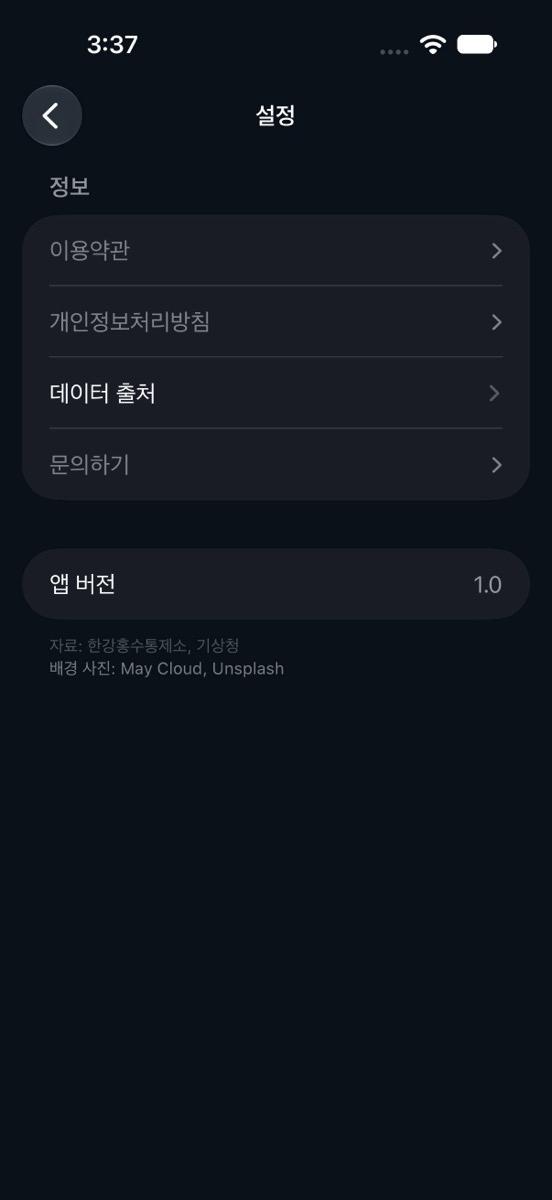
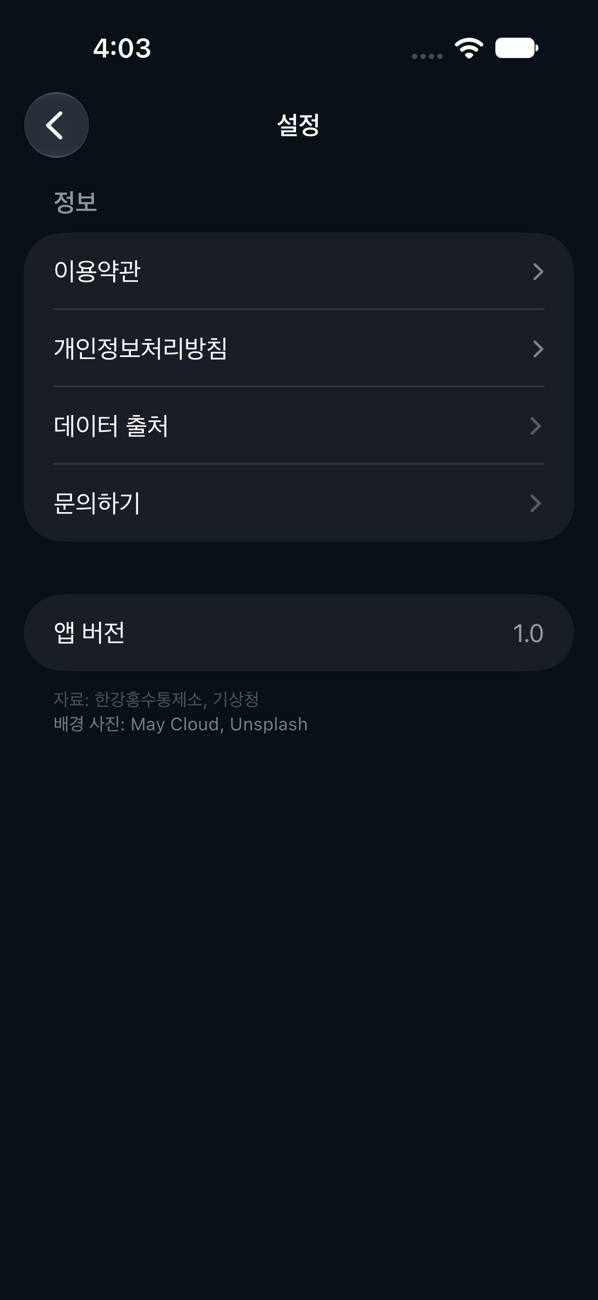
feat: 문의하기 화면 — 앱 이메일 · 기상청 · 한강홍수통제소 (#92)
문의하기가 메일 앱 대신 앱 안 화면을 열어서 SettingsRowsTests 기대값 2곳을 새 동작에 맞춤.

diff --git a/yeoulmok/yeoulmok/Features/Settings/ContactView.swift b/yeoulmok/yeoulmok/Features/Settings/ContactView.swift
@@ -1,0 +1,117 @@
+import SwiftUI
+
+/// "문의하기" in settings (APP-SET-02, #92): the app's own email first, then the public
+/// agencies whose data the app shows, kept apart so app problems are not sent to them.
+/// Temporary wording until QA (not in Figma).
+///
+///     여울목 앱 문의
+///       이메일                 help@example.com    ›
+///     관측 자료 문의 (공식 기관)
+///       기상청 · 강수량          홈페이지 ›   131 ›
+///       한강홍수통제소 · 하천 수위  홈페이지 ›
+struct ContactView: View {
+    /// A public agency the app's data comes from (same as `DataSourceView`).
+    struct Agency: Equatable {
+        let id: String
+        let name: String
+        /// What to ask them about.
+        let topic: String
+        let website: URL
+        /// Phone shown with its note, or `nil` to show only the website (a number that
+        /// could not be confirmed is left out, so it never goes stale in the app).
+        let phone: String?
+        let phoneNote: String?
+    }
+
+    static let appSection = "여울목 앱 문의"
+    static let appFooter = "앱 오류, 알림, 계곡 추가 요청은 여울목으로 보내 주세요."
+    static let agencySection = "관측 자료 문의 (공식 기관)"
+    static let agencyFooter = "관측값 자체나 공식 예보 · 특보는 해당 기관에 문의해 주세요. 기관에서는 여울목 앱 문의를 받지 않아요."
+    static let emailMissing = "준비 중"
+
+    /// Checked on 2026-11-20: KMA weather call center 131 (24 hours, charged); for the
+    /// Han River Flood Control Office only the website is listed.
+    static let agencies: [Agency] = [
+        Agency(id: "kma", name: "기상청", topic: "강수량 · 날씨",
+               website: URL(string: "https://www.weather.go.kr")!,
+               phone: "131", phoneNote: "기상콜센터 · 24시간 · 유료"),
+        Agency(id: "hrfco", name: "한강홍수통제소", topic: "하천 수위 · 홍수 예보",
+               website: URL(string: "https://www.hrfco.go.kr")!,
+               phone: nil, phoneNote: nil),
+    ]
+
+    let info: AppInfo
+
+    @Environment(\.openURL) private var openURL
+
+    var body: some View {
+        List {
+            Section {
+                row(title: "이메일", value: info.contactEmail ?? Self.emailMissing,
+                    url: info.contactURL, id: "contact.email")
+            } header: {
+                Text(Self.appSection)
+            } footer: {
+                Text(Self.appFooter)
+            }
+            .listRowBackground(Self.rowBackground)
+
+            Section {
+                ForEach(Self.agencies, id: \.id) { agency in
+                    VStack(alignment: .leading, spacing: 2) {
+                        Text(agency.name).font(.body.weight(.semibold))
+                        Text(agency.topic).font(.footnote).foregroundStyle(Theme.Text.label)
+                    }
+                    .accessibilityElement(children: .combine)
+                    row(title: "홈페이지", value: agency.website.host() ?? "", url: agency.website,
+                        id: "contact.\(agency.id).web")
+                    if let phone = agency.phone {
+                        row(title: "전화 \(phone)", value: agency.phoneNote ?? "",
+                            url: URL(string: "tel:\(phone)"), id: "contact.\(agency.id).phone")
+                    }
+                }
+            } header: {
+                Text(Self.agencySection)
+            } footer: {
+                Text(Self.agencyFooter)
+            }
+            .listRowBackground(Self.rowBackground)
+        }
+        .scrollContentBackground(.hidden)
+        .background { PhotoBackdrop(style: .plain) }
+        .navigationTitle("문의하기")
+        .navigationBarTitleDisplayMode(.inline)
+        .toolbar(.hidden, for: .tabBar)
+    }
+
+    private static let rowBackground = Color.white.opacity(0.06)
+
+    /// A tappable row that opens `url` outside the app; disabled when it is `nil`.
+    private func row(title: String, value: String, url: URL?, id: String) -> some View {
+        Button {
+            if let url { openURL(url) }
+        } label: {
+            HStack {
+                Text(title).foregroundStyle(url == nil ? Theme.Text.source : Theme.Text.primary)
+                Spacer()
+                Text(value)
+                    .font(.footnote)
+                    .foregroundStyle(Theme.Text.label)
+                    .lineLimit(1)
+                Image(systemName: "chevron.right")
+                    .font(.footnote.weight(.semibold))
+                    .foregroundStyle(Theme.Text.source)
+                    .accessibilityHidden(true)
+            }
+            .contentShape(Rectangle())
+        }
+        .disabled(url == nil)
+        .accessibilityIdentifier(id)
+    }
+}
+
+#Preview {
+    NavigationStack {
+        ContactView(info: AppInfo(info: ["ContactEmail": "help@example.com"]))
+    }
+}

diff --git a/yeoulmok/yeoulmokUITests/SettingsUITests.swift b/yeoulmok/yeoulmokUITests/SettingsUITests.swift
@@ -45,6 +45,22 @@ final class SettingsUITests: XCTestCase {
         XCTAssertTrue(app.navigationBars["설정"].waitForExistence(timeout: 3))
     }
 
+    /// #92: 문의하기 opens a screen with the app's email and the two agencies.
+    @MainActor
+    func testContactListsAppEmailAndAgencies() {
+        app.buttons["settings.contact"].tap()
+
+        XCTAssertTrue(app.navigationBars["문의하기"].waitForExistence(timeout: 3))
+        XCTAssertTrue(app.buttons["contact.email"].exists)
+        XCTAssertTrue(app.buttons["contact.kma.web"].exists)
+        XCTAssertTrue(app.buttons["contact.kma.phone"].exists)
+        XCTAssertTrue(app.buttons["contact.hrfco.web"].exists)
+        XCTAssertTrue(element(containing: "한강홍수통제소").exists)
+
+        app.navigationBars.buttons.firstMatch.tap()
+        XCTAssertTrue(app.navigationBars["설정"].waitForExistence(timeout: 3))
+    }
+
     @MainActor
     func testBackGoesToHome() {
         app.navigationBars.buttons.firstMatch.tap()

diff --git a/yeoulmok/yeoulmok/Features/Settings/SettingsRows.swift b/yeoulmok/yeoulmok/Features/Settings/SettingsRows.swift
@@ -8,6 +8,9 @@ nonisolated struct SettingsRow: Equatable, Identifiable {
         case open(URL?)
         /// Shows the data source screen inside the app.
         case dataSource
+        /// Shows the contact screen inside the app (#92): the app's email and the
+        /// agencies behind the data. Always open, even before the email is set.
+        case contact
     }
 
     let id: String
@@ -24,7 +27,7 @@ nonisolated enum SettingsRows {
             SettingsRow(id: "terms", title: "이용약관", action: .open(info.termsURL)),
             SettingsRow(id: "privacy", title: "개인정보처리방침", action: .open(info.privacyURL)),
             SettingsRow(id: "dataSource", title: "데이터 출처", action: .dataSource),
-            SettingsRow(id: "contact", title: "문의하기", action: .open(info.contactURL)),
+            SettingsRow(id: "contact", title: "문의하기", action: .contact),
         ]
     }
 

diff --git a/yeoulmok/yeoulmokTests/Settings/SettingsRowsTests.swift b/yeoulmok/yeoulmokTests/Settings/SettingsRowsTests.swift
@@ -20,7 +20,7 @@ struct SettingsRowsTests {
         #expect(rows[0].action == .open(URL(string: "https://example.com/terms")))
         #expect(rows[1].action == .open(URL(string: "https://example.com/privacy")))
         #expect(rows[2].action == .dataSource)
-        #expect(rows[3].action == .open(URL(string: "mailto:help@example.com")))
+        #expect(rows[3].action == .contact)
         let allEnabled = rows.allSatisfy(\.isEnabled)
         #expect(allEnabled)
     }
@@ -30,7 +30,8 @@ struct SettingsRowsTests {
         let rows = SettingsRows.rows(for: empty)
         #expect(rows.count == 4)
         let enabled = rows.filter(\.isEnabled).map(\.id)
-        #expect(enabled == ["dataSource"])
+        // 문의하기 opens its own screen (#92), with the agencies even before the email is set.
+        #expect(enabled == ["dataSource", "contact"])
     }
 
     @Test func versionText() {

diff --git a/yeoulmok/yeoulmok/Features/Settings/SettingsView.swift b/yeoulmok/yeoulmok/Features/Settings/SettingsView.swift
@@ -49,6 +49,11 @@ struct SettingsView: View {
                 DataSourceView()
             }
             .accessibilityIdentifier("settings.\(row.id)")
+        case .contact:
+            NavigationLink(row.title) {
+                ContactView(info: info)
+            }
+            .accessibilityIdentifier("settings.\(row.id)")
         case let .open(url):
             Button {
                 if let url { openURL(url) }
